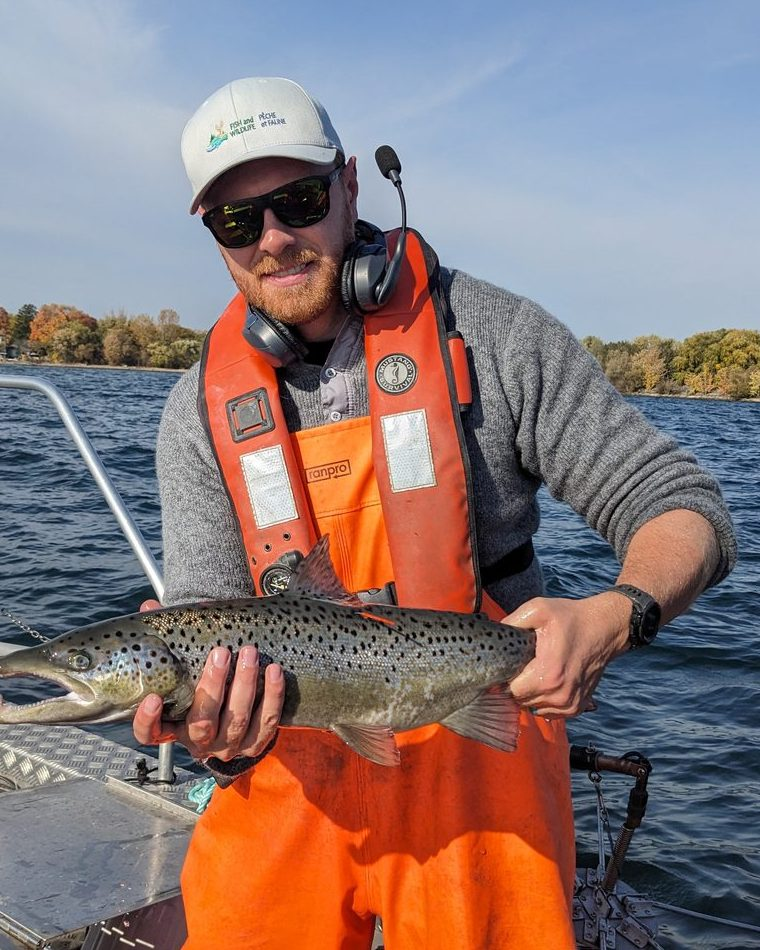
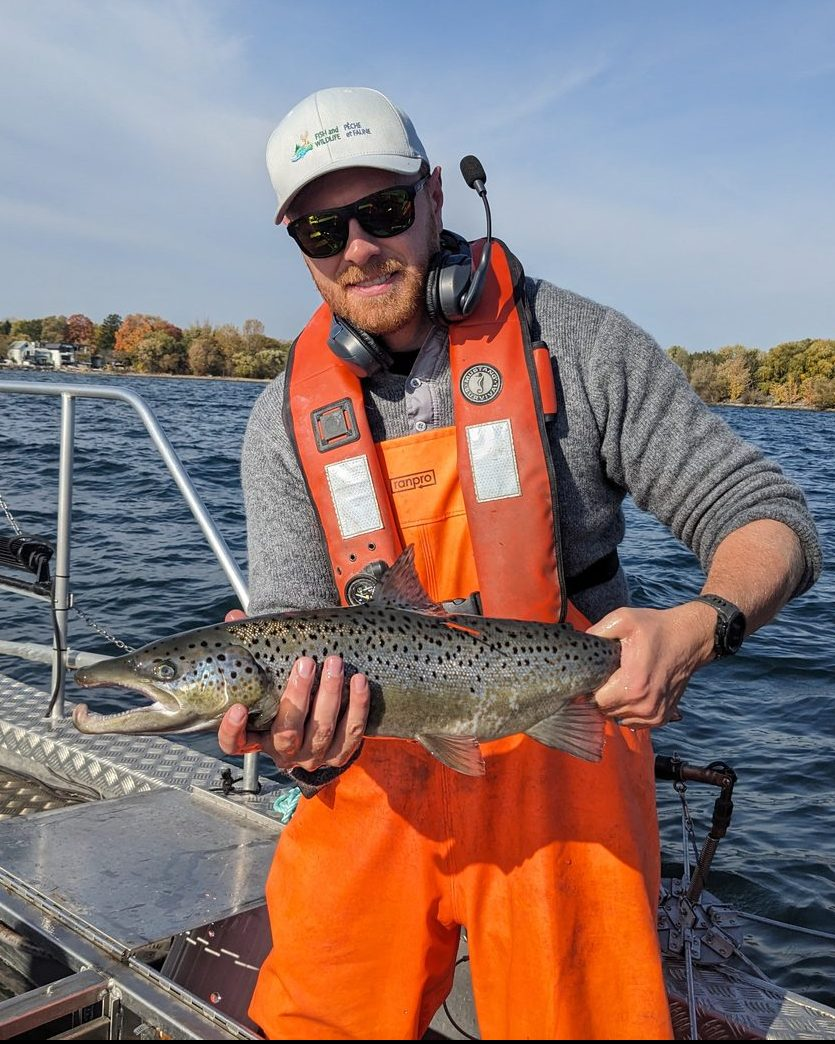
Fixed photo
Photo fix

diff --git a/map-scroller-demo.html b/map-scroller-demo.html
@@ -1,0 +1,229 @@
+<!DOCTYPE html>
+<html lang="en">
+<head>
+<meta charset="UTF-8">
+<meta name="viewport" content="width=device-width, initial-scale=1.0">
+<title>Scroll-driven viewBox camera — standalone demo</title>
+<style>
+  /* ------------------------------------------------------------------
+     SCROLL-DRIVEN viewBox CAMERA — standalone demo
+     The whole effect = one fixed SVG whose viewBox is animated on scroll.
+     Swap the <svg> contents for your own art and edit WAYPOINTS below.
+  ------------------------------------------------------------------ */
+  *{margin:0;padding:0;box-sizing:border-box}
+  html{scroll-behavior:smooth}
+  body{
+    font-family:system-ui,-apple-system,"Segoe UI",sans-serif;
+    color:#14333D; background:#EDF2F3; line-height:1.6;
+  }
+
+  /* (1) the fixed full-viewport canvas behind everything */
+  .mapbg{position:fixed; inset:0; z-index:-1; pointer-events:none;}
+  .mapbg svg{width:100%; height:100%; display:block;}
+
+  /* (2) content floats in translucent, blurred panels so it stays legible */
+  section{min-height:100vh; display:flex; align-items:center; justify-content:center; padding:48px 24px;}
+  .panel{
+    max-width:640px;
+    background:rgba(241,245,246,.66);
+    backdrop-filter:blur(4px) saturate(106%);
+    -webkit-backdrop-filter:blur(4px) saturate(106%);
+    border:1px solid rgba(74,124,140,.30);
+    box-shadow:0 18px 40px -26px rgba(20,51,61,.45);
+    padding:36px 40px;
+  }
+  .eyebrow{font-size:11px; letter-spacing:.22em; text-transform:uppercase; color:#4A7C8C; font-weight:600;}
+  h1{font-size:clamp(32px,6vw,56px); letter-spacing:-.02em; margin:.3rem 0 .6rem;}
+  h2{font-size:clamp(24px,4vw,34px); letter-spacing:-.01em; margin:.3rem 0 .8rem;}
+  p{color:#3E5A63; max-width:48ch;}
+  code{background:rgba(74,124,140,.14); padding:1px 6px; border-radius:3px; font-size:.92em;}
+
+  /* (3) optional pulsing "beacon" marker (defined as SVG elements) */
+  .pulse{transform-box:fill-box; transform-origin:center; animation:ping 4.5s ease-out infinite;}
+  .pulse.p2{animation-delay:2.25s;}
+  @keyframes ping{0%{transform:scale(.2);opacity:.8} 100%{transform:scale(4);opacity:0}}
+
+  @media (prefers-reduced-motion: reduce){
+    html{scroll-behavior:auto}
+    .pulse{animation:none}
+  }
+</style>
+</head>
+<body>
+
+<!-- ================= (1) THE FIXED BACKGROUND SVG =================
+     Author all artwork in ONE coordinate space. Here it's 0 0 1440 700.
+     The starting viewBox is just the first waypoint. -->
+<div class="mapbg" aria-hidden="true">
+  <svg id="mapbg-svg" viewBox="320 30 1120 630" preserveAspectRatio="xMidYMid slice">
+
+    <!-- faint reference grid so the camera motion is obvious -->
+    <g stroke="#B9CDD1" stroke-width="1" opacity=".5">
+      <line x1="0" y1="100" x2="1440" y2="100"/><line x1="0" y1="200" x2="1440" y2="200"/>
+      <line x1="0" y1="300" x2="1440" y2="300"/><line x1="0" y1="400" x2="1440" y2="400"/>
+      <line x1="0" y1="500" x2="1440" y2="500"/><line x1="0" y1="600" x2="1440" y2="600"/>
+      <line x1="200" y1="0" x2="200" y2="700"/><line x1="400" y1="0" x2="400" y2="700"/>
+      <line x1="600" y1="0" x2="600" y2="700"/><line x1="800" y1="0" x2="800" y2="700"/>
+      <line x1="1000" y1="0" x2="1000" y2="700"/><line x1="1200" y1="0" x2="1200" y2="700"/>
+    </g>
+
+    <!-- a stand-in "landmass": replace with your own <path> art (map, floorplan, diagram…) -->
+    <path d="M120,520 C260,300 520,360 660,300 C820,232 1040,300 1180,240
+             C1300,300 1340,460 1180,520 C980,600 520,560 360,600 C220,632 80,600 120,520 Z"
+          fill="rgba(174,204,211,.55)" stroke="#4A7C8C" stroke-width="2"/>
+
+    <!-- nested "contours" to make zoom read clearly -->
+    <g fill="none" stroke="#4A7C8C" stroke-opacity=".4" stroke-width="1.4">
+      <ellipse cx="700" cy="420" rx="360" ry="120"/>
+      <ellipse cx="700" cy="420" rx="240" ry="78"/>
+      <ellipse cx="700" cy="420" rx="130" ry="44"/>
+    </g>
+
+    <!-- labels live in the same coordinate space and zoom with everything else -->
+    <g font-family="system-ui,sans-serif" font-size="13" letter-spacing="2" fill="#3E5A63" opacity=".8">
+      <text x="300" y="470">WEST POINT</text>
+      <text x="1010" y="250">EAST CAPE</text>
+      <text x="640" y="430">CENTRE BASIN</text>
+    </g>
+
+    <!-- (3) pulsing beacon: two staggered rings + a solid dot -->
+    <g>
+      <circle class="pulse"    cx="980" cy="300" r="6" fill="none" stroke="#B5446E" stroke-width="1.5"/>
+      <circle class="pulse p2" cx="980" cy="300" r="6" fill="none" stroke="#B5446E" stroke-width="1.5"/>
+      <circle cx="980" cy="300" r="3.5" fill="#B5446E" fill-opacity=".9"/>
+      <text x="958" y="320" font-family="system-ui,sans-serif" font-size="10" letter-spacing="1.6" fill="#B5446E" opacity=".85">BEACON</text>
+    </g>
+  </svg>
+</div>
+
+
+<!-- ================= (2) THE PAGE SECTIONS =================
+     Each id is referenced by a waypoint below. -->
+<section id="top">
+  <div class="panel">
+    <p class="eyebrow">Scroll to drive the camera</p>
+    <h1>viewBox camera</h1>
+    <p>The background is one fixed SVG. As you scroll, its <code>viewBox</code> is
+       interpolated between per-section waypoints, so the map pans and zooms.
+       Keep scrolling — watch the grid and the beacon.</p>
+  </div>
+</section>
+
+<section id="overview">
+  <div class="panel">
+    <p class="eyebrow">Section 02</p>
+    <h2>Zoom out to the full extent</h2>
+    <p>This waypoint frames the entire <code>0 0 1440 700</code> drawing. Larger
+       width/height in the viewBox = more of the art visible = zoomed out.</p>
+  </div>
+</section>
+
+<section id="detail">
+  <div class="panel">
+    <p class="eyebrow">Section 03</p>
+    <h2>Punch in on a detail</h2>
+    <p>A small viewBox rectangle frames just the centre basin. The camera eases
+       in rather than snapping, because the current viewBox chases the target
+       a fraction each frame.</p>
+  </div>
+</section>
+
+<section id="beacon">
+  <div class="panel">
+    <p class="eyebrow">Section 04</p>
+    <h2>Frame the beacon</h2>
+    <p>Point a waypoint anywhere in the coordinate space — here, the pulsing
+       marker near the east cape. The marker animation is pure CSS, independent
+       of the camera.</p>
+  </div>
+</section>
+
+<section id="end">
+  <div class="panel">
+    <p class="eyebrow">Section 05 · fin</p>
+    <h2>Make it yours</h2>
+    <p>Replace the SVG contents with your own vector art and edit
+       <code>WAYPOINTS</code>. The engine below never needs to change.</p>
+  </div>
+</section>
+
+
+<!-- ================= (3) THE ENGINE (reusable, unchanged) ================= -->
+<script>
+(function(){
+  var svg = document.getElementById('mapbg-svg');
+  if(!svg) return;
+  var reduce = window.matchMedia && window.matchMedia('(prefers-reduced-motion: reduce)').matches;
+
+  // Each section gets a target viewBox [x, y, w, h] in the SVG's own coord space.
+  // Smaller w/h = zoomed in. First entry pins scroll=0, last pins scroll=1.
+  var WAYPOINTS = [
+    {sel:'#top',      vb:[320,  30, 1120, 630]},  // partial view, top-right-ish
+    {sel:'#overview', vb:[0,     0, 1440, 700]},  // full extent
+    {sel:'#detail',   vb:[470, 300,  470, 300]},  // centre basin close-up
+    {sel:'#beacon',   vb:[820, 180,  360, 240]},  // frame the beacon
+    {sel:'#end',      vb:[60,  360,  760, 300]}   // sweep to the west point
+  ];
+
+  // Works whether the window scrolls or a wrapper element does.
+  function scroller(){ return document.scrollingElement || document.documentElement || document.body; }
+  function viewH(){ return window.innerHeight || scroller().clientHeight; }
+  function scrollPos(){ var se = scroller(); return window.scrollY || window.pageYOffset || se.scrollTop || 0; }
+  function maxScroll(){ var se = scroller(); return Math.max(1, se.scrollHeight - viewH()); }
+
+  // Convert each section's page position into a scroll-progress key (0..1).
+  var keys = [];
+  function layout(){
+    var docH = maxScroll();
+    keys = WAYPOINTS.map(function(w){
+      var el = document.querySelector(w.sel);
+      var top = el ? Math.max(0, el.offsetTop - viewH()*0.35) : 0; // trigger ~35% before section top
+      return {p: Math.min(1, top/docH), vb: w.vb};
+    });
+    keys[0].p = 0; keys[keys.length-1].p = 1;
+  }
+
+  function smooth(t){ return t*t*(3-2*t); }            // smoothstep easing between waypoints
+
+  // Interpolate the target viewBox for a given scroll progress p.
+  function targetVB(p){
+    if(p <= keys[0].p) return keys[0].vb;
+    for(var i=0;i<keys.length-1;i++){
+      var a=keys[i], b=keys[i+1];
+      if(p <= b.p){
+        var span = b.p - a.p || 1;
+        var t = smooth((p - a.p)/span);
+        return a.vb.map(function(v,j){ return v + (b.vb[j]-v)*t; });
+      }
+    }
+    return keys[keys.length-1].vb;
+  }
+
+  var cur = WAYPOINTS[0].vb.slice();
+  function setVB(v){ svg.setAttribute('viewBox', v.map(function(n){return n.toFixed(1);}).join(' ')); }
+
+  if(reduce){ setVB(cur); return; }                    // reduced-motion: static, no rAF loop
+
+  layout();
+  var lastH = 0;
+  function frame(){
+    var se = scroller();
+    if(se.scrollHeight !== lastH){ lastH = se.scrollHeight; layout(); } // re-measure as content/chrome shifts
+
+    var p = Math.min(1, Math.max(0, scrollPos()/maxScroll()));
+    var tgt = targetVB(p), moving = false;
+    for(var i=0;i<4;i++){
+      var d = tgt[i]-cur[i];
+      if(Math.abs(d) > 0.15){ cur[i] += d*0.085; moving = true; }  // ease toward target (raise for snappier)
+      else { cur[i] = tgt[i]; }
+    }
+    if(moving) setVB(cur);
+    requestAnimationFrame(frame);                      // always-on loop; writes only while moving
+  }
+  window.addEventListener('resize', layout);
+  requestAnimationFrame(frame);
+})();
+</script>
+
+</body>
+</html>

diff --git a/index.html b/index.html
@@ -308,7 +308,7 @@
     </div>
     <figure class="inset">
       <div class="frame"><span class="tick"></span>
-        <img src="tom-atlantic.jpg" alt="Thomas Gristey on an assessment vessel on Lake Ontario, holding an Atlantic salmon" width="760" height="950">
+        <img src="tom-atlantic.jpg" alt="Thomas Gristey on an assessment vessel on Lake Ontario, holding an Atlantic salmon" width="835" height="1044">
       </div>
       <figcaption>Me holding an Atlantic salmon — Lake Ontario assessment programs, OMNR</figcaption>
     </figure>
